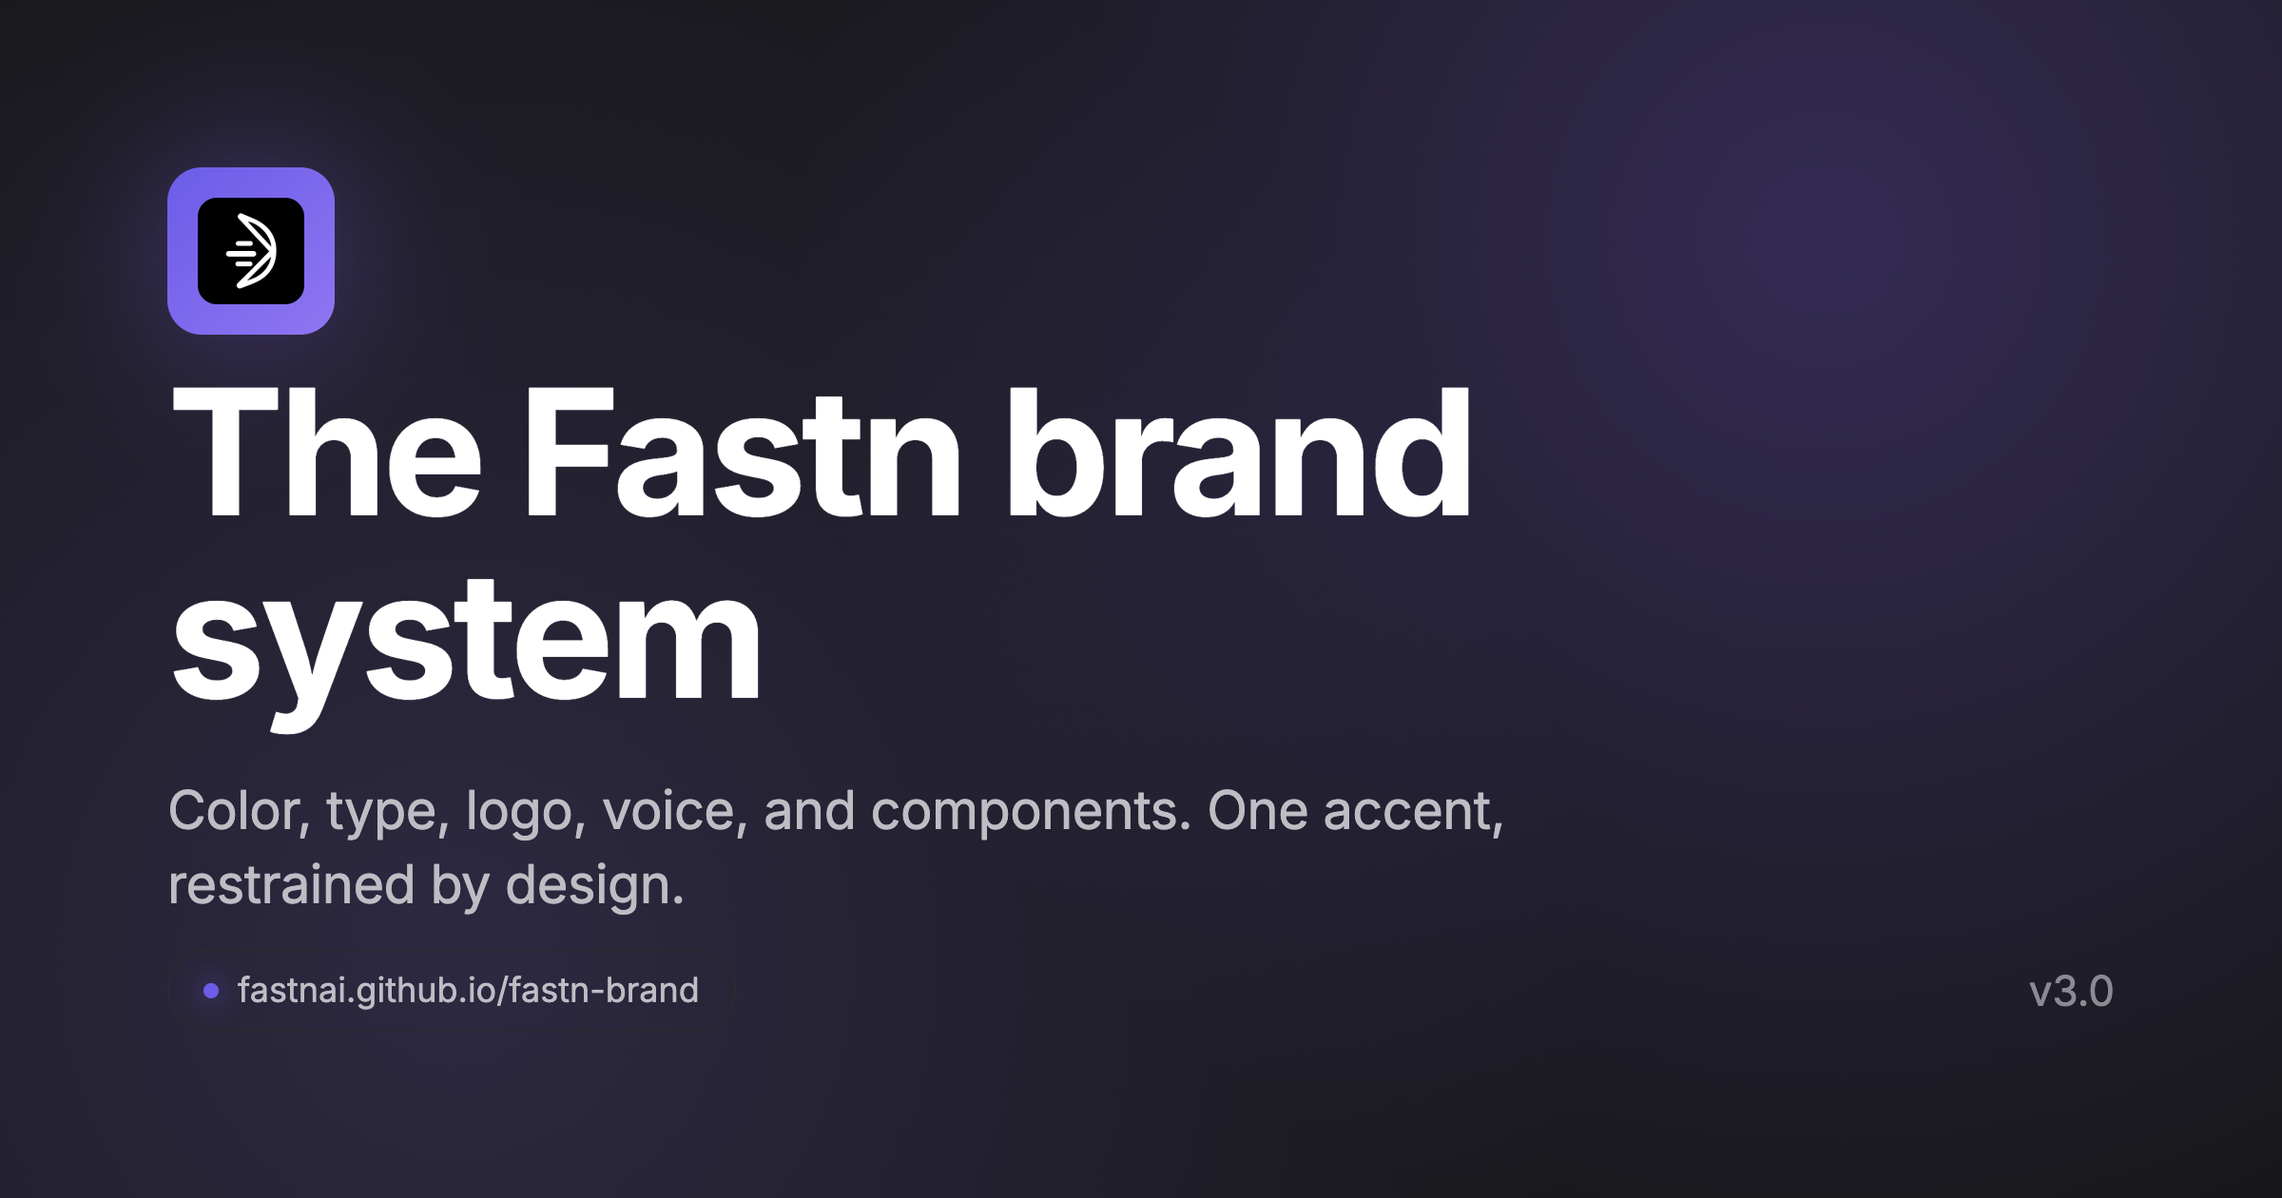
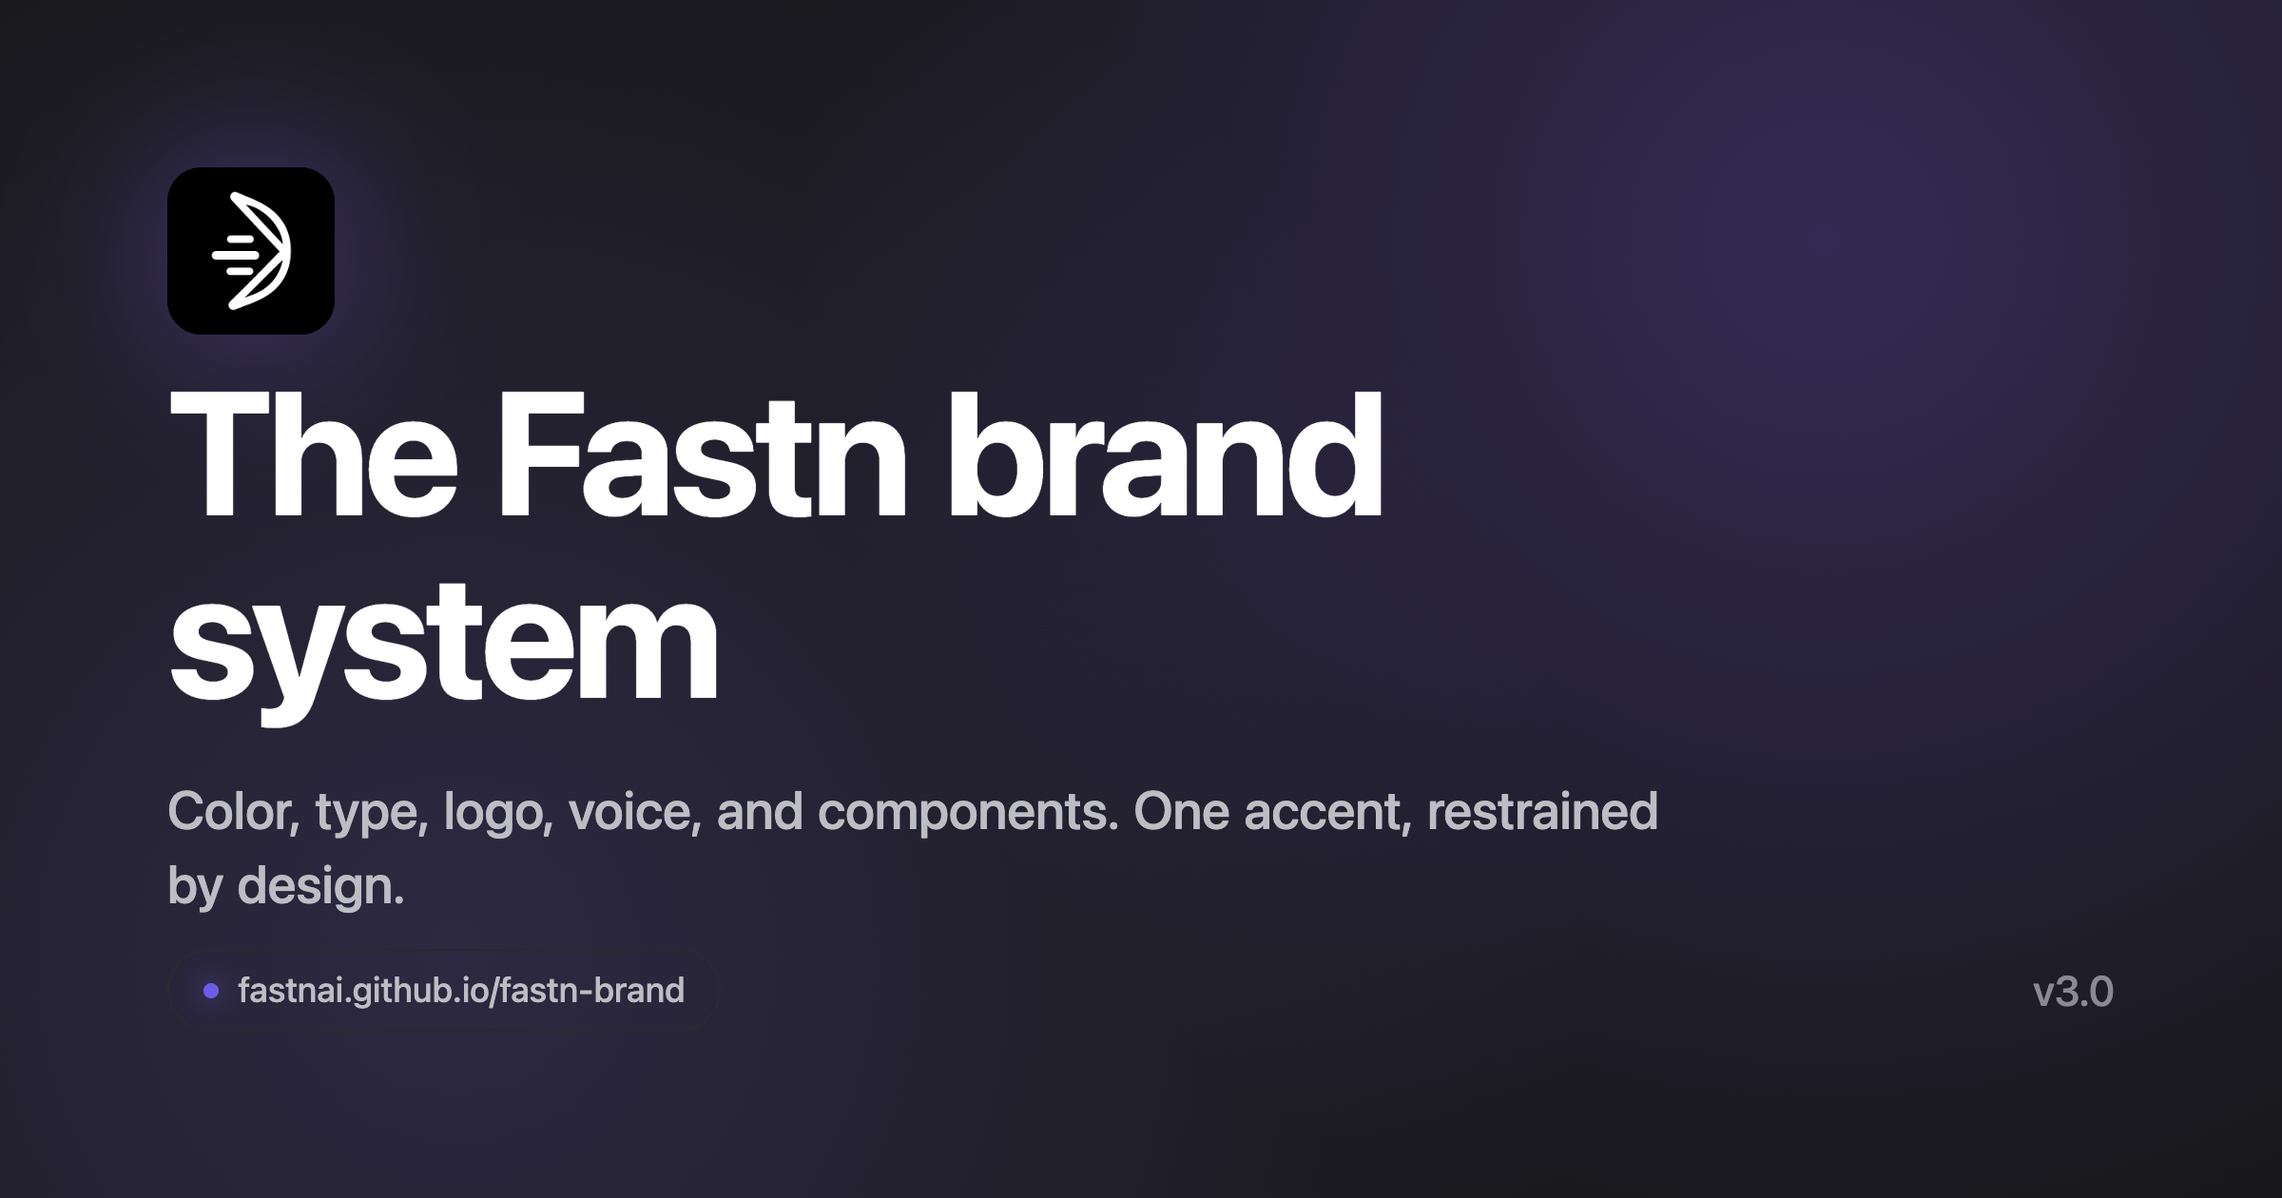
Repo audit cleanup
Dead code
- Remove unused .logo-on-accent CSS class.

Tokenize hardcoded values in fastn-brand-system.html
- Replace 3 hardcoded focus-ring rgba() with --focus-ring token.
- Replace error focus-shadow rgba() with --focus-ring-error token.
- Replace hardcoded pass-state green (#4ADE80 dark, #15803D light) with
  a theme-aware --pass token. Drops the duplicate light-theme override.

Consistency
- og.html now uses self-hosted Inter (was Google Fonts) to match the
  main page. Cleaner icon styling: the rounded asset fills its own
  badge with object-fit cover instead of being nested inside a
  decorative gradient block.

Markup
- index.html is now well-formed (html/head/body) with an accessible
  fallback link if the redirect fails or scripts are disabled.

Docs
- SKILL.md rewritten to match the v3 spec exactly: gradient CTA with
  glow, 19px/700 button text, theme-specific --accent-link, input
  states, accessibility checklist, expanded don't-list.
- README adds CHANGELOG.md, CONTRIBUTING.md, fonts/, og.html/og.png
  to the file map.
- CHANGELOG records this cleanup pass under [Unreleased].

Regenerated og.png to reflect the cleaner card composition.

diff --git a/fastn-brand-system.html b/fastn-brand-system.html
@@ -80,6 +80,9 @@
   --on-accent:     #FFFFFF;
   --accent-link:   #A78BFA;   /* 6.51 contrast on dark, AA */
   --placeholder:   #8A8A92;   /* T3, 5.17 on dark, AA */
+  --focus-ring:    rgba(108, 92, 231, 0.40);
+  --focus-ring-error: rgba(239, 68, 68, 0.20);
+  --pass:          #4ADE80;
   --wordmark-filt: invert(1);
 }
 
@@ -98,6 +101,9 @@
   --on-accent:     #FFFFFF;
   --accent-link:   #6C5CE7;   /* 4.86 on white, AA. accent-2 fails (2.72). */
   --placeholder:   #6E6E76;   /* T3, 5.05 on white, AA */
+  --focus-ring:    rgba(108, 92, 231, 0.40);
+  --focus-ring-error: rgba(239, 68, 68, 0.20);
+  --pass:          #15803D;
   --wordmark-filt: none;
 }
 
@@ -149,7 +155,7 @@ body {
   transition: color var(--dur) var(--ease), border-color var(--dur) var(--ease);
 }
 .theme-toggle:hover { color: var(--t1); border-color: var(--bd-hi); }
-.theme-toggle:focus-visible { outline: none; box-shadow: 0 0 0 3px rgba(108,92,231,0.40); }
+.theme-toggle:focus-visible { outline: none; box-shadow: 0 0 0 3px var(--focus-ring); }
 .theme-toggle svg { width: 16px; height: 16px; }
 .theme-toggle .icon-sun { display: none; }
 [data-theme="light"] .theme-toggle .icon-sun { display: block; }
@@ -215,7 +221,7 @@ label { display: block; font-size: 15px; font-weight: 600; color: var(--t1); mar
 /* Primary CTA bumps to 19px / 700 so it qualifies as WCAG large text
    (>=14pt bold). White on the gradient endpoint passes AA-large (3.48). */
 .btn-primary { font-size: 19px; font-weight: 700; }
-.btn:focus-visible { outline: none; box-shadow: 0 0 0 3px rgba(108,92,231,0.40); }
+.btn:focus-visible { outline: none; box-shadow: 0 0 0 3px var(--focus-ring); }
 .btn-primary {
   background: linear-gradient(90deg, var(--accent-1), var(--accent-2));
   color: var(--on-accent);
@@ -323,7 +329,7 @@ label { display: block; font-size: 15px; font-weight: 600; color: var(--t1); mar
   transition: background var(--dur) var(--ease);
 }
 .color-row:hover { background: var(--s1); }
-.color-row:focus-visible { outline: none; box-shadow: 0 0 0 3px rgba(108,92,231,0.40); border-radius: var(--r-2); }
+.color-row:focus-visible { outline: none; box-shadow: 0 0 0 3px var(--focus-ring); border-radius: var(--r-2); }
 .color-row .chip {
   width: 40px;
   height: 40px;
@@ -380,7 +386,6 @@ label { display: block; font-size: 15px; font-weight: 600; color: var(--t1); mar
 .logo-tile.icon-tile img { max-width: 40%; max-height: 60%; border-radius: 12px; }
 .logo-on-bg { background: var(--bg); }
 .logo-on-card { background: var(--s1); }
-.logo-on-accent { background: var(--accent-1); }
 .logo-on-light { background: #FFFFFF; }
 /* Wordmark inverts in dark theme so it reads white. Icon asset is already self-contained. */
 [data-theme="dark"] .logo-on-bg img,
@@ -475,7 +480,7 @@ label { display: block; font-size: 15px; font-weight: 600; color: var(--t1); mar
 .input::placeholder { color: var(--placeholder); }
 .input:focus { border-color: var(--accent-1); box-shadow: 0 0 0 3px rgba(108,92,231,0.20); }
 .input[aria-invalid="true"], .input.is-invalid { border-color: var(--error); }
-.input[aria-invalid="true"]:focus, .input.is-invalid:focus { box-shadow: 0 0 0 3px rgba(239,68,68,0.20); }
+.input[aria-invalid="true"]:focus, .input.is-invalid:focus { box-shadow: 0 0 0 3px var(--focus-ring-error); }
 .input:disabled { opacity: 0.5; cursor: not-allowed; }
 
 .field { margin-top: 16px; }
@@ -518,8 +523,8 @@ label { display: block; font-size: 15px; font-weight: 600; color: var(--t1); mar
 }
 .a11y-table td { color: var(--t2); }
 .a11y-table td:last-child { text-align: right; font-variant-numeric: tabular-nums; }
-.a11y-table .pass { color: #4ADE80; font-size: 12px; font-weight: 600; letter-spacing: 0.04em; }
-[data-theme="light"] .a11y-table .pass { color: #15803D; }
+.a11y-table .pass { color: var(--pass); font-size: 12px; font-weight: 600; letter-spacing: 0.04em; }
+
 
 /* Footer */
 footer {

diff --git a/og.html b/og.html
@@ -2,11 +2,15 @@
 <html lang="en">
 <head>
 <meta charset="UTF-8">
-<title>Fastn Brand System &middot; OG image</title>
-<link rel="preconnect" href="https://fonts.googleapis.com">
-<link rel="preconnect" href="https://fonts.gstatic.com" crossorigin>
-<link rel="stylesheet" href="https://fonts.googleapis.com/css2?family=Inter:wght@400;600;700&display=swap">
+<title>Fastn Brand System &middot; OG image source</title>
 <style>
+  @font-face {
+    font-family: 'Inter';
+    font-style: normal;
+    font-weight: 100 900;
+    font-display: swap;
+    src: url('fonts/inter-latin.woff2') format('woff2');
+  }
   * { margin: 0; padding: 0; box-sizing: border-box; }
   html, body { background: #18181B; }
   .card {
@@ -22,20 +26,16 @@
     display: flex;
     flex-direction: column;
     justify-content: space-between;
-    position: relative;
     overflow: hidden;
   }
   .icon {
     width: 88px;
     height: 88px;
     border-radius: 18px;
-    background: linear-gradient(135deg, #6C5CE7, #8E76F2);
     box-shadow: 0 0 80px rgba(124, 92, 231, 0.45);
-    display: flex;
-    align-items: center;
-    justify-content: center;
+    overflow: hidden;
   }
-  .icon img { height: 56px; width: auto; display: block; }
+  .icon img { width: 100%; height: 100%; display: block; object-fit: cover; }
   h1 {
     font-weight: 700;
     font-size: 92px;
@@ -81,10 +81,11 @@
 </style>
 </head>
 <body>
-  <!-- Source for og.png. Render to PNG by screenshotting this file at 1200x630. -->
+  <!-- Source for og.png. Render at 1200x630 (deviceScaleFactor: 2 for retina).
+       See CONTRIBUTING.md for the regeneration command. -->
   <div class="card">
     <div class="icon">
-      <img src="logos/fastn-icon-rounded.jpg" alt="" style="border-radius: 10px;">
+      <img src="logos/fastn-icon-rounded.jpg" alt="">
     </div>
 
     <div>

diff --git a/index.html b/index.html
@@ -1,3 +1,12 @@
 <!DOCTYPE html>
+<html lang="en">
+<head>
+<meta charset="UTF-8">
+<title>Fastn Brand System</title>
 <meta http-equiv="refresh" content="0;url=fastn-brand-system.html">
 <link rel="canonical" href="fastn-brand-system.html">
+</head>
+<body>
+<p>Redirecting to <a href="fastn-brand-system.html">the Fastn brand system</a>.</p>
+</body>
+</html>

diff --git a/SKILL.md b/SKILL.md
@@ -1,6 +1,6 @@
 # Fastn Brand Skill
 
-You are working on a project for Fastn (fastn.ai), a platform for trustworthy agents and high-value workflows. Apply these brand guidelines to every design, copy, and code decision.
+You are working on a project for Fastn (fastn.ai). Apply these brand guidelines to every design, copy, and code decision.
 
 ## Philosophy
 
@@ -12,24 +12,26 @@ If a design feels visually busy, the fix is almost always to remove color, not a
 
 - Name: Fastn. Always lowercase "fastn" in logos and product UI. Title case "Fastn" in prose.
 - Tone: Direct, confident, without ceremony. Engineer briefing a teammate.
-- We sell trust. Every visual choice should feel calm, deliberate, and high-signal.
+- We sell trust. Every visual choice should feel calm, deliberate, high-signal.
 
 ## Color
 
-### Accent (the only chromatic color)
+### Accent (the only chromatic color in the system)
 
 | Token | Value | Use |
 |---|---|---|
-| `--accent-1` | `#6C5CE7` | Gradient start, focus rings |
-| `--accent-2` | `#A78BFA` | Gradient end, inline link color |
-| Gradient | `linear-gradient(90deg, #6C5CE7, #A78BFA)` | Primary CTA only |
-| Glow | `0 0 28px rgba(124, 92, 231, 0.45)` | Outer glow on primary CTA |
+| `--accent-1` | `#6C5CE7` | Gradient start. Inline link color in light theme. |
+| `--accent-2` | `#8E76F2` | Gradient end. Inline link color in dark theme. |
+| `--accent-glow` | `rgba(124, 92, 231, 0.45)` | 28px outer glow on the primary CTA. |
+| `--accent-link` | theme-specific | `#A78BFA` in dark, `#6C5CE7` in light. |
+
+The CTA gradient is `linear-gradient(90deg, #6C5CE7, #8E76F2)`. It appears on the primary CTA only. Paired with the 28px outer glow.
 
 The accent appears on three things, nothing else:
 
-1. The primary CTA button (gradient fill plus glow).
-2. Inline links inside body text (solid `--accent-2`).
-3. Focus rings on interactive elements.
+1. The primary CTA button (gradient fill + glow).
+2. Inline links inside body text (solid `--accent-link`).
+3. Focus rings on interactive elements (`box-shadow: 0 0 0 3px rgba(108, 92, 231, 0.40)`).
 
 It must not appear on: section labels, badges, eyebrow tags, hover states for non-action elements, decorative dividers, icons, or background tints.
 
@@ -41,11 +43,11 @@ It must not appear on: section labels, badges, eyebrow tags, hover states for no
 | Surface 1 (cards, inputs) | `#1F1F23` |
 | Surface 2 (hover) | `#26262B` |
 | Border | `#2A2A30` |
-| Border high | `#3A3A42` |
+| Border high (hover, focus) | `#3A3A42` |
 | Text 1 (headings) | `#FFFFFF` |
 | Text 2 (body) | `#BDBDC4` |
 | Text 3 (supporting) | `#8A8A92` |
-| Text 4 (disabled, non-text) | `#5C5C64` |
+| Text 4 (disabled, non-text only) | `#5C5C64` |
 
 ### Light theme
 
@@ -59,9 +61,9 @@ It must not appear on: section labels, badges, eyebrow tags, hover states for no
 | Text 1 | `#18181B` |
 | Text 2 | `#44444A` |
 | Text 3 | `#6E6E76` |
-| Text 4 | `#A4A4AC` |
+| Text 4 (non-text only) | `#A4A4AC` |
 
-### Semantic (sparingly)
+### Semantic (state indicators only)
 
 | Token | Hex | Use |
 |---|---|---|
@@ -71,7 +73,7 @@ It must not appear on: section labels, badges, eyebrow tags, hover states for no
 
 ## Typography
 
-Inter, throughout. No secondary or monospace typeface in brand surfaces. Inter weights 400, 500, 600, 700.
+Inter, throughout. Weights 400, 500, 600, 700. No secondary or monospace typeface in brand surfaces.
 
 | Role | Size | Weight | Tracking |
 |---|---|---|---|
@@ -84,14 +86,7 @@ Inter, throughout. No secondary or monospace typeface in brand surfaces. Inter w
 
 For technical documentation, monospace is allowed inside code blocks only. Use the platform default (`ui-monospace`, no custom face).
 
-## Logo
-
-- Use the wordmark for marketing, web, and documentation.
-- Use the icon mark (`fastn-icon-rounded.jpg`) for compact placements: avatars, favicons, app icons, sign-in cards.
-- White wordmark on dark backgrounds, black wordmark on light. Use `filter: invert(1)` on the PNG, or use a colored variant.
-- The icon-rounded asset is self-contained (dark square plus white icon). Use as-is on any background.
-- Never recolor, stretch, rotate, or add effects to the logo.
-- Minimum clear space equal to the height of the "f" in the wordmark.
+The primary CTA uses 19px / 700 (qualifies as WCAG large text so the gradient endpoint passes AA-large contrast for white-on-color).
 
 ## Components
 
@@ -103,17 +98,28 @@ For technical documentation, monospace is allowed inside code blocks only. Use t
 
 ```css
 .btn-primary {
-  background: linear-gradient(90deg, #6C5CE7, #A78BFA);
+  background: linear-gradient(90deg, #6C5CE7, #8E76F2);
   color: #FFFFFF;
   box-shadow: 0 0 28px rgba(124, 92, 231, 0.45);
   padding: 16px 20px;
   border-radius: 8px;
-  font-weight: 600;
+  font-size: 19px;
+  font-weight: 700;
 }
-.btn-primary:hover { filter: brightness(1.05); box-shadow: 0 0 40px rgba(124, 92, 231, 0.45); }
+.btn-primary:hover {
+  filter: brightness(1.05);
+  box-shadow: 0 0 40px rgba(124, 92, 231, 0.45);
+}
+.btn-primary:disabled {
+  opacity: 0.5;
+  cursor: not-allowed;
+  box-shadow: none;
+}
 ```
 
-### Secondary buttons (passkey, Google, Microsoft)
+### Secondary buttons
+
+For passkey, Google, Microsoft, "View on GitHub" style actions.
 
 ```css
 .btn-secondary {
@@ -122,9 +128,22 @@ For technical documentation, monospace is allowed inside code blocks only. Use t
   border: 1px solid var(--border);
   padding: 16px 20px;
   border-radius: 8px;
+  font-size: 17px;
   font-weight: 600;
 }
+.btn-secondary:hover {
+  background: var(--s2);
+  border-color: var(--bd-hi);
+}
 ```
+
+### Loading button
+
+```html
+<button class="btn btn-primary" data-loading="true">Sending</button>
+```
+
+Hide the text (`color: transparent`) and draw an animated spinner via `::after`. Respect `prefers-reduced-motion`.
 
 ### Inputs
 
@@ -136,23 +155,30 @@ For technical documentation, monospace is allowed inside code blocks only. Use t
   padding: 14px 16px;
   color: var(--t1);
 }
+.input::placeholder { color: var(--placeholder); }  /* T3, AA on input fill */
 .input:focus {
   border-color: var(--accent-1);
   box-shadow: 0 0 0 3px rgba(108, 92, 231, 0.20);
   outline: none;
 }
+.input[aria-invalid="true"] { border-color: var(--error); }
+.input:disabled { opacity: 0.5; cursor: not-allowed; }
 ```
+
+Helper text below the input uses Text 3 (`.field-hint`). Error text uses `--error` and `font-weight: 500` (`.field-error`).
 
 ### Inline links
 
 ```css
 a {
-  color: var(--accent-2);
+  color: var(--accent-link);
   text-decoration: none;
   font-weight: 600;
 }
 a:hover { text-decoration: underline; text-underline-offset: 3px; }
 ```
+
+`--accent-link` is `#A78BFA` in dark (AA 6.51) and `#6C5CE7` in light (AA 4.86). Do not use `#A78BFA` on a white background; contrast is only 2.72.
 
 ## Voice and tone
 
@@ -183,6 +209,15 @@ a:hover { text-decoration: underline; text-underline-offset: 3px; }
 - Active voice, present tense.
 - Do not use em dashes. Use periods, commas, or parentheses instead.
 
+## Logo
+
+- Use the wordmark for marketing, web, and documentation. Files: `logos/fastn-logo-740px.png`, `logos/fastn-logo-400px.png`.
+- Use the icon mark for compact placements (avatars, favicons, app icons, sign-in cards). File: `logos/fastn-icon-rounded.jpg`.
+- White wordmark on dark backgrounds, black wordmark on light. Apply `filter: invert(1)` to the PNG when on dark surfaces.
+- The icon-rounded asset is self-contained (dark square + white icon). Use as-is on any background.
+- Never recolor, stretch, rotate, or add effects to the logo.
+- Minimum clear space equal to the height of the "f" in the wordmark.
+
 ## Spacing and layout
 
 - Base unit: 4px grid.
@@ -190,13 +225,22 @@ a:hover { text-decoration: underline; text-underline-offset: 3px; }
 - Use generous whitespace. Let content breathe.
 - Narrow centered columns (around 560px) for read-heavy surfaces. Wider only when content demands it.
 
+## Accessibility checklist (every shipped surface)
+
+- WCAG 2.1 AA contrast for every text combination. Verify with the swatches in `fastn-brand-system.html`.
+- Visible focus ring on every interactive element (`box-shadow: 0 0 0 3px rgba(108, 92, 231, 0.40)`).
+- Buttons and links keyboard-accessible. No `<div onclick>`.
+- Touch targets >= 44 x 44 px.
+- Respect `prefers-color-scheme`, `prefers-reduced-motion`, and `forced-colors`.
+
 ## Don't list
 
 - A second accent color.
 - A second typeface.
-- Decorative gradients on text or backgrounds.
+- Decorative gradients on text or backgrounds (gradient is reserved for the primary CTA).
 - Em dashes in copy.
 - Title Case headings.
-- Drop shadows on text or cards (the only shadow allowed is the CTA glow).
+- Drop shadows on text or cards (the only allowed shadow is the CTA glow).
 - Border colors that aren't from the surface scale.
-- Hover states that change hue.
+- Hover states that change hue (use brightness or opacity).
+- `outline: none` without a replacement focus style.

diff --git a/README.md b/README.md
@@ -16,7 +16,11 @@ Color is punctuation, not prose. One accent (the indigo gradient) carries every 
 | `tokens.css` | CSS custom properties. Drop into any project. |
 | `tokens.json` | Source-of-truth tokens. Style Dictionary / Figma / Tailwind importable. |
 | `SKILL.md` | Project file for Claude. Adds brand context to AI-assisted work. |
+| `CHANGELOG.md` | Versioned change log (Keep a Changelog format). |
+| `CONTRIBUTING.md` | What we accept, the PR checklist, versioning policy. |
 | `logos/` | Logo files (wordmark PNG, icon PNG, social variants). |
+| `fonts/` | Self-hosted Inter (latin subset, woff2). |
+| `og.html`, `og.png` | OpenGraph share card source and rendered image. |
 
 ## Quick start
 

diff --git a/CHANGELOG.md b/CHANGELOG.md
@@ -7,6 +7,16 @@ Token, font, and visual changes that affect consumers are marked **breaking** un
 
 ## [Unreleased]
 
+### Changed
+- Tokenize hardcoded focus-ring color (3 occurrences) as `--focus-ring`.
+- Tokenize pass-state green as `--pass`; theme-aware (`#4ADE80` dark, `#15803D` light).
+- Tokenize error focus-ring shadow as `--focus-ring-error`.
+- `og.html` now uses self-hosted Inter to match the main page.
+- `index.html` is now well-formed (has `<html>`, `<head>`, `<body>` and an accessible fallback link).
+
+### Removed
+- Dead CSS class `.logo-on-accent` (the on-accent logo tile was removed earlier).
+
 ## [3.0.0] - 2026-05-20
 
 ### Changed (breaking)
